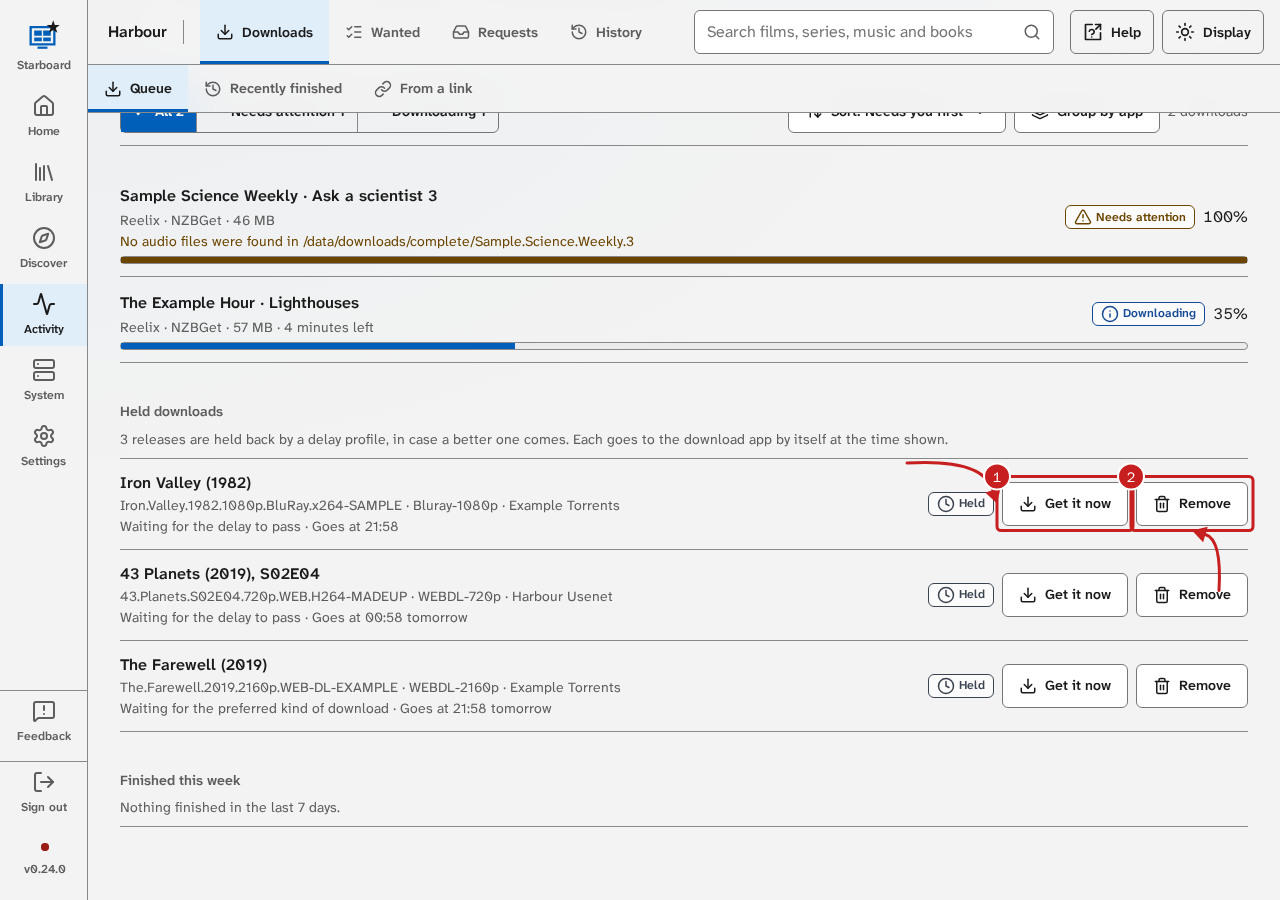
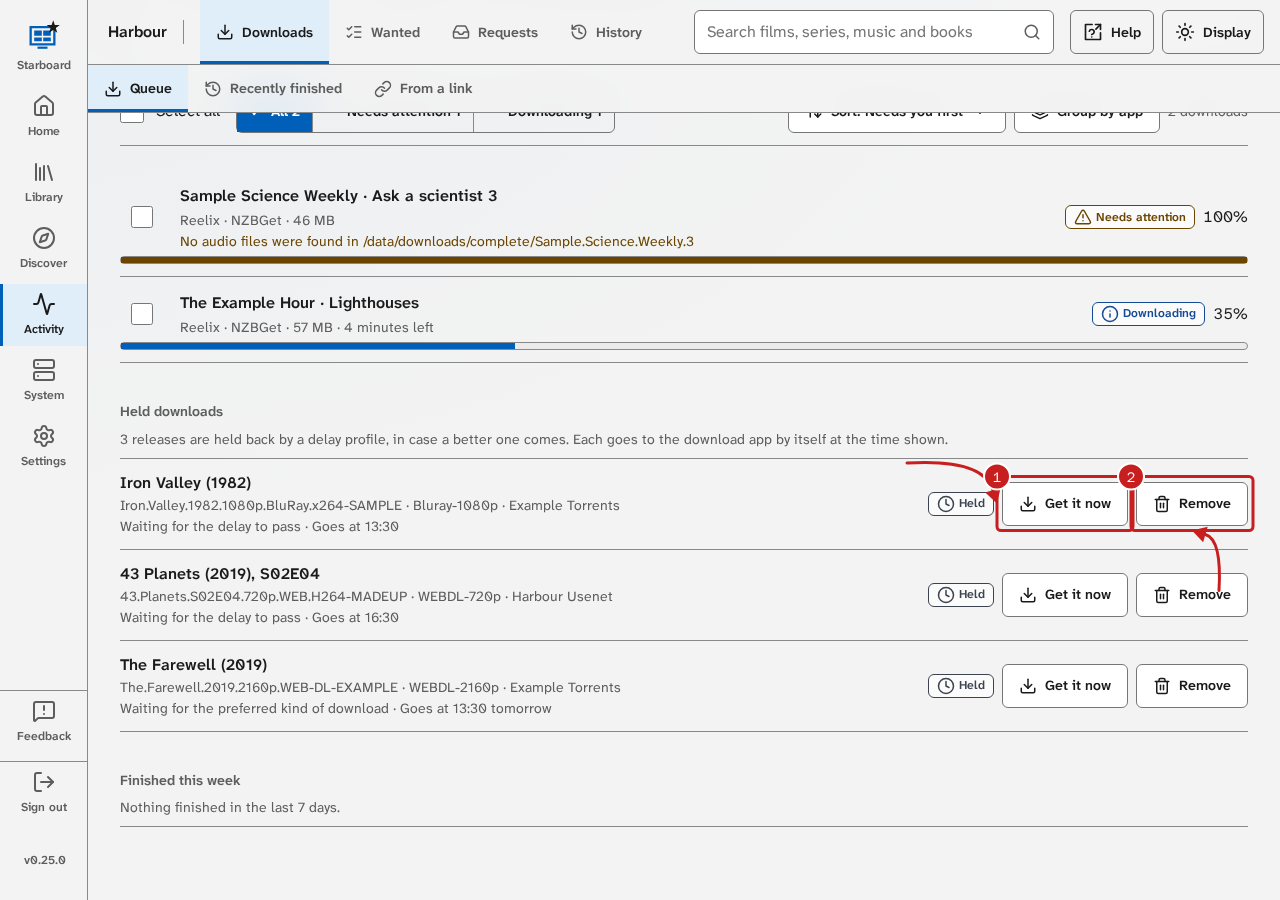
Bulk actions on the download queue (#245)
A box on each row, Select all in the toolbar (Shift and a tick for a run), and the design system's selection bar
with Try the import again and Ignore (Reelix, waiting to import), Find another, Remove and Clear selection. Each
download goes to its app in turn; the bar counts, then one sentence says what was done. Focus goes to Select all,
or the empty list, when the bar closes. Help: Act on several downloads at once, two new pictures.

diff --git a/web/js/downloads.js b/web/js/downloads.js
@@ -16,6 +16,9 @@ let checkedAt = null;
 let attention = null; // the open slide-out of a download that needs attention (DASH-496): { key, data, done }
 let panelOpener = null; // the download's name that opened it, for focus to go back to
 let unpackTimer = null;
+let chosen = new Set(); // keys of the downloads ticked for a bulk action (owner, 21 November 2026)
+let lastPicked = null; // the key last ticked or cleared, for Shift and click to tick a run of rows
+let bulkRunning = false;
 
 const STATE_WORDS = {
   downloading: STATUS.downloading, importPending: STATUS.waitingToImport, importing: STATUS.importing,
@@ -75,6 +78,8 @@ function setProgress(bar, item, label) {
 // Rows ---------------------------------------------------------------------
 
 function buildRow() {
+  const pick = el("input", { type: "checkbox", class: "dl-pick__box" });
+  pick.addEventListener("click", (e) => pickRow(pick.closest("[data-key]").dataset.key, pick.checked, e.shiftKey));
   const button = el("button", { type: "button" });
   button.addEventListener("click", () => openDetails(button.closest("[data-key]").dataset.key, button));
   const meta = el("div", { class: "row__meta" });
@@ -82,9 +87,9 @@ function buildRow() {
   const pct = el("span", { class: "numeric" });
   const side = el("div", { class: "row__side" }, pct);
   const bar = newBar();
-  const li = el("li", { class: "row row--opens row--no-lead" },
+  const li = el("li", { class: "row row--opens dl-row" }, el("label", { class: "dl-pick" }, pick),
     el("div", {}, el("div", { class: "row__title" }, button), meta, reason), side, bar);
-  li.parts = { button, meta, reason, pct, side, bar, chip: null };
+  li.parts = { pick, button, meta, reason, pct, side, bar, chip: null };
   return li;
 }
 
@@ -93,6 +98,11 @@ function renderRow(item, old) {
   const p = li.parts;
   const [label, tone] = words(item);
   if (p.button.textContent !== item.title) p.button.textContent = item.title;
+  const can = canAct(item);
+  p.pick.disabled = !can || bulkRunning;
+  p.pick.parentElement.classList.toggle("dl-pick--none", !can);
+  p.pick.checked = chosen.has(item.key);
+  p.pick.setAttribute("aria-label", `Select ${item.title}`);
   p.meta.textContent = [grouped ? "" : item.service_name, item.client, formatBytes(item.size), timeLeftWords(item.time_left)].filter(Boolean).join(" · ");
   p.reason.textContent = item.problem && item.messages.length ? item.messages[0] : "";
   p.reason.hidden = !p.reason.textContent;
@@ -146,14 +156,144 @@ function renderRows() {
   let empty = $("#queue-empty");
   if (!shown.length) {
     const text = items.length ? `Nothing in the queue is "${filter}" right now.` : "Nothing is downloading. New downloads from your apps appear here.";
-    if (!empty) { empty = el("p", { id: "queue-empty", class: "empty" }); box.after(empty); }
+    if (!empty) { empty = el("p", { id: "queue-empty", class: "empty", tabindex: "-1" }); box.after(empty); }
     empty.textContent = text;
   } else {
     empty?.remove();
   }
+  // Only downloads on the list stay ticked: one that left the queue, or that the filter hides, drops out.
+  const keys = new Set(shown.filter(canAct).map((i) => i.key));
+  for (const k of chosen) if (!keys.has(k)) chosen.delete(k);
+  renderSelection(shown);
   $("#queue-count").textContent = filter
     ? `${shown.length} of ${items.length} downloads`
     : `${items.length} ${items.length === 1 ? "download" : "downloads"}`;
+}
+
+// Bulk actions (owner, 21 November 2026: "add a bulk selector to the list so can do bulk actions") ------------
+// A box on each row and Select all in the toolbar; the selection bar at the foot of the list then offers the
+// actions that fit what is ticked. Each download is sent on its own, one after another, as the slide-out does, and
+// the bar counts them; then one sentence says what was done. Focus goes to Select all when the bar closes.
+
+function canAct(item) { return item.id != null && !!item.service; }
+function stuckItem(item) { return item.reelix && ["importPending", "importBlocked", "failedPending"].includes(item.status); }
+function shownItems() { return sorted(items.filter((i) => !filter || words(i)[0] === filter)); }
+
+function pickRow(key, on, range) {
+  const list = shownItems().filter(canAct).map((i) => i.key);
+  const keys = range && lastPicked && list.includes(lastPicked)
+    ? list.slice(Math.min(list.indexOf(lastPicked), list.indexOf(key)), Math.max(list.indexOf(lastPicked), list.indexOf(key)) + 1)
+    : [key];
+  keys.forEach((k) => (on ? chosen.add(k) : chosen.delete(k)));
+  lastPicked = key;
+  renderRows();
+}
+
+function renderSelection(shown = shownItems()) {
+  const can = shown.filter(canAct);
+  const all = $("#select-all");
+  if (all) {
+    all.disabled = !can.length || bulkRunning;
+    all.checked = can.length > 0 && chosen.size === can.length;
+    all.indeterminate = chosen.size > 0 && chosen.size < can.length;
+    all.closest("label").hidden = !can.length;
+  }
+  const bar = $("#selection-bar");
+  if (!bar || bulkRunning) return;
+  const picked = can.filter((i) => chosen.has(i.key));
+  const sig = picked.map((i) => `${i.key}:${stuckItem(i)}`).join(",");
+  if (bar.dataset.sig === sig) return; // the poll changes nothing here, so focus in the bar stays put
+  bar.dataset.sig = sig;
+  bar.hidden = !picked.length;
+  if (!picked.length) return;
+  const stuck = picked.filter(stuckItem);
+  const one = picked.length === 1;
+  $("#selection-text").textContent = `${plural(picked.length, "download")} selected`;
+  const button = (iconName, text, action, cls = "btn") => {
+    const b = el("button", { type: "button", class: cls }, icon(iconName), text);
+    b.addEventListener("click", action);
+    return b;
+  };
+  const clients = (list) => [...new Set(list.map((i) => i.client).filter(Boolean))];
+  const where = (list) => (clients(list).length === 1 ? clients(list)[0] : "the download clients");
+  const left = (n) => {
+    const rest = picked.length - n;
+    if (!rest) return "";
+    return rest === 1 ? " The other download is not waiting to import, so it is left as it is."
+      : ` The other ${rest} downloads are not waiting to import, so they are left as they are.`;
+  };
+  const out = [];
+  if (stuck.length) {
+    out.push(button("refresh-cw", "Try the import again", () => bulkRun(stuck, "import", {
+      title: `Try the import again for ${plural(stuck.length, "download")}?`,
+      message: `Reelix checks the finished files again and moves them into your library if it can.${left(stuck.length)}`,
+      confirm: "Try again" }), "btn btn--primary"));
+    out.push(button("eye-off", "Ignore", () => bulkRun(stuck, "ignore", {
+      title: `Ignore ${plural(stuck.length, "download")}?`,
+      message: `Reelix stops warning about ${stuck.length === 1 ? "it" : "them"} and leaves the files in ${where(stuck)}'s folder. Nothing is deleted.${left(stuck.length)}`,
+      confirm: "Ignore" })));
+  }
+  out.push(button("search", "Find another", () => bulkRun(picked, "block-search", {
+    title: one ? "Block this release and find another?" : `Block these ${picked.length} releases and find others?`,
+    message: `Each app removes ${one ? "it" : "them"} from ${where(picked)}, never downloads ${one ? "that release" : "those releases"} again, and searches for another now.`,
+    confirm: "Block and search" })));
+  out.push(button("trash-2", "Remove", () => {
+    const block = el("input", { type: "checkbox" });
+    bulkRun(picked, () => (block.checked ? "block" : "remove"), {
+      title: `Remove ${plural(picked.length, "download")}?`,
+      message: `Each app removes ${one ? "it" : "them"} from its queue and from ${where(picked)}, with what ${one ? "it has" : "they have"} downloaded.`,
+      fields: [el("label", { class: "check" }, block, el("span", { class: "check__text" }, el("strong", { text: one ? "Block this release" : "Block these releases" }),
+        el("span", { class: "check__hint", text: "So the apps do not download them again." })))],
+      confirm: one ? "Remove download" : `Remove ${picked.length} downloads`, danger: true });
+  }, "btn btn--danger"));
+  out.push(button("x", "Clear selection", () => { chosen.clear(); renderRows(); $("#select-all")?.focus(); announce("Selection cleared"); }));
+  $("#selection-actions").replaceChildren(...out);
+}
+
+const BULK_DONE = { import: ["Reelix is trying the import again for", "The import was not tried again for"],
+  ignore: ["Ignored", "Not ignored:"], "block-search": ["Blocked, and searching for others for", "Not blocked:"],
+  remove: ["Removed", "Not removed:"], block: ["Removed and blocked", "Not removed:"] };
+
+async function bulkRun(list, action, dialog) {
+  if (bulkRunning || !(await confirmDialog(dialog))) return;
+  const chosenAction = typeof action === "function" ? action() : action;
+  const bar = $("#selection-bar");
+  const text = $("#selection-text");
+  bulkRunning = true;
+  bar.setAttribute("aria-busy", "true");
+  bar.querySelectorAll("button").forEach((b) => { b.disabled = true; });
+  renderRows();
+  const failed = [];
+  for (const [n, item] of list.entries()) {
+    text.textContent = `Working on ${n + 1} of ${list.length}…`;
+    try {
+      await api("/api/queue/action", { method: "POST", body: { service: item.service, id: item.id, action: chosenAction } });
+      chosen.delete(item.key);
+    } catch (e) { failed.push(`${item.title}: ${e.message}`); }
+  }
+  bulkRunning = false;
+  bar.removeAttribute("aria-busy");
+  delete bar.dataset.sig;
+  const done = list.length - failed.length;
+  const [yes, no] = BULK_DONE[chosenAction];
+  const said = [done ? `${yes} ${plural(done, "download")}.` : "", failed.length ? `${no} ${plural(failed.length, "download")}.` : ""].filter(Boolean).join(" ");
+  await load();
+  // Focus: the bar's first button while some are still ticked; otherwise Select all, or the empty queue's words.
+  const all = $("#select-all");
+  if (!bar.hidden) $("button", bar)?.focus();
+  else if (all && !all.closest("label").hidden) all.focus();
+  else $("#queue-empty")?.focus();
+  if (failed.length) problem(`${said} ${failed.join(" ")}`); else toast(said);
+  announce(said);
+}
+
+function selectAll() {
+  const all = $("#select-all");
+  const can = shownItems().filter(canAct);
+  if (all.checked) can.forEach((i) => chosen.add(i.key)); else chosen.clear();
+  lastPicked = null;
+  renderRows();
+  announce(all.checked ? `${plural(can.length, "download")} selected` : "Selection cleared");
 }
 
 // One state at a time (DASH-309, R4): a segmented control, All first. The poll only changes the counts in place;
@@ -995,6 +1135,7 @@ startPage().then(async () => {
     setPaused(!paused);
     announce(paused ? "Updates paused" : every ? `Updates resumed, every ${every} seconds` : "Updates only when you press Check again");
   });
+  $("#select-all").addEventListener("change", selectAll);
   $("#group-by-app").addEventListener("click", (e) => {
     grouped = !grouped;
     e.currentTarget.setAttribute("aria-pressed", String(grouped));

diff --git a/web/css/media.css b/web/css/media.css
@@ -22,6 +22,23 @@
 /* Downloads: the reason a row needs attention shows in the row on wider screens only. */
 .dl-reason { color: var(--status-warning-fg); }
 
+/* Downloads: a box at the start of each row for bulk actions (21 November 2026). The label is the 44px target and
+   sits above the row's own link, which covers the row. A download no app can act on keeps the space, with no box. */
+.dl-pick {
+  position: relative;
+  z-index: 1;
+  display: grid;
+  place-items: center;
+  min-width: 44px;
+  min-height: 44px;
+  margin-block: calc(var(--space-2) * -1);
+  cursor: pointer;
+}
+.dl-pick__box { width: 22px; height: 22px; margin: 0; accent-color: var(--color-accent); }
+.dl-pick--none { visibility: hidden; }
+.dl-select-all { padding-block: 0; align-items: center; margin-right: var(--space-2); }
+#selection-bar { margin-top: var(--space-4); }
+
 /* Phones: rows put the side (chip, Add) under the text; rows with no lead are one column. */
 @media (max-width: 720px) {
   .media .row { grid-template-columns: auto minmax(0, 1fr); }

diff --git a/web/downloads.html b/web/downloads.html
@@ -48,6 +48,7 @@
   </section>
   <div class="toolbar">
     <div class="toolbar__row">
+      <label class="check dl-select-all" hidden><input type="checkbox" id="select-all"><span class="check__text">Select all</span></label>
       <div class="filter-chips" id="queue-filters" role="group" aria-label="Show only"></div>
       <div class="toolbar__end">
         <div class="menu-wrap" id="sort-wrap">
@@ -66,6 +67,10 @@
   </div>
   <div id="queue-errors"></div>
   <div id="queue" aria-label="Queue"></div>
+  <div class="selection-bar" id="selection-bar" role="region" aria-label="Selected downloads" hidden>
+    <span class="selection-bar__text" id="selection-text"></span>
+    <div class="actions" id="selection-actions"></div>
+  </div>
   <section class="media-section" id="held-section" aria-labelledby="held-h" hidden>
     <h2 class="group-heading" id="held-h" tabindex="-1">Held downloads</h2>
     <p class="small muted" id="held-summary"></p>

diff --git a/docs/help/topics/manage-downloads.md b/docs/help/topics/manage-downloads.md
@@ -4,7 +4,7 @@
 # Pause, resume and remove downloads
 
 **Activity**, then **Downloads** shows the queues of all your apps in one list. From it you can pause and resume
-all downloads, remove one download, or ask an app to find a different copy.
+all downloads, remove one download or several at once, or ask an app to find a different copy.
 
 ## Before you begin
 
@@ -49,6 +49,31 @@ Use this when a download is stuck or the wrong one.
 2. Select **Find another**. Starboard asks **Block this release and find another?**
 3. Select **Block and search**. The app removes this copy, never downloads it again and searches for another
    now.
+
+### Act on several downloads at once
+
+Use this to remove, ignore or import many downloads together, such as a whole season that is not an upgrade.
+
+1. Tick the box at the start of each download's row. To tick a run of rows, tick the first, then hold **Shift**
+   and tick the last. To tick every download on the list, tick **Select all**.
+2. A bar at the foot of the list says how many are selected and shows what you can do with them:
+   **Try the import again** and **Ignore** for Reelix downloads waiting to import, **Find another**, **Remove**
+   and **Clear selection**.
+
+   ![The queue with two downloads ticked, with Select all (step 1) and the bar of actions (step 2) outlined, with example data](../images/manage-downloads-6-select.png)
+
+3. Select an action. Starboard asks first and says how many downloads it acts on.
+4. Optional: for **Remove**, tick **Block these releases** so the apps do not download them again.
+5. Select the button that names the action, such as **Remove 2 downloads**.
+
+   ![The question before removing two downloads, with Block these releases (step 4) and Remove 2 downloads (step 5) outlined, with example data](../images/manage-downloads-7-bulk-remove.png)
+
+6. Starboard sends each download to its app in turn and counts them in the bar, then says what was done, such as
+   **Removed 12 downloads.** Any it could not do are named, with the app's reason.
+
+**Try the import again** and **Ignore** act only on the selected downloads that are waiting to import; the
+question says how many others are left as they are. A download the filter hides is not selected, so choose the
+filter first, such as **Needs attention**, then **Select all**.
 
 ### Get a held download now, or remove it
 

diff --git a/CHANGELOG.md b/CHANGELOG.md
@@ -7,6 +7,9 @@ add features.
 
 ## [Unreleased]
 
+### Added
+- **Bulk actions on the download queue (owner, 21 November 2026: "add a bulk selector to the list so can do bulk actions"):** on Activity, Downloads, Queue, each download has a box at the start of its row, and Select all in the toolbar ticks every download on the list; Shift and a tick selects a run of rows. A bar at the foot of the list says how many are selected and offers Try the import again and Ignore (for Reelix downloads waiting to import), Find another, Remove (with Block these releases) and Clear selection. Starboard asks first, naming how many it acts on, then sends each download to its app in turn, counts them in the bar and says what was done; any it could not do are named with the app's reason. A download the filter hides drops out of the selection. Screen readers hear the count and the result, and focus goes back to Select all, or to the empty list's words, when the bar closes. Design system: selection bar, selectable rows.
+
 ## [0.25.0] (20 November 2026)
 
 ### Added
